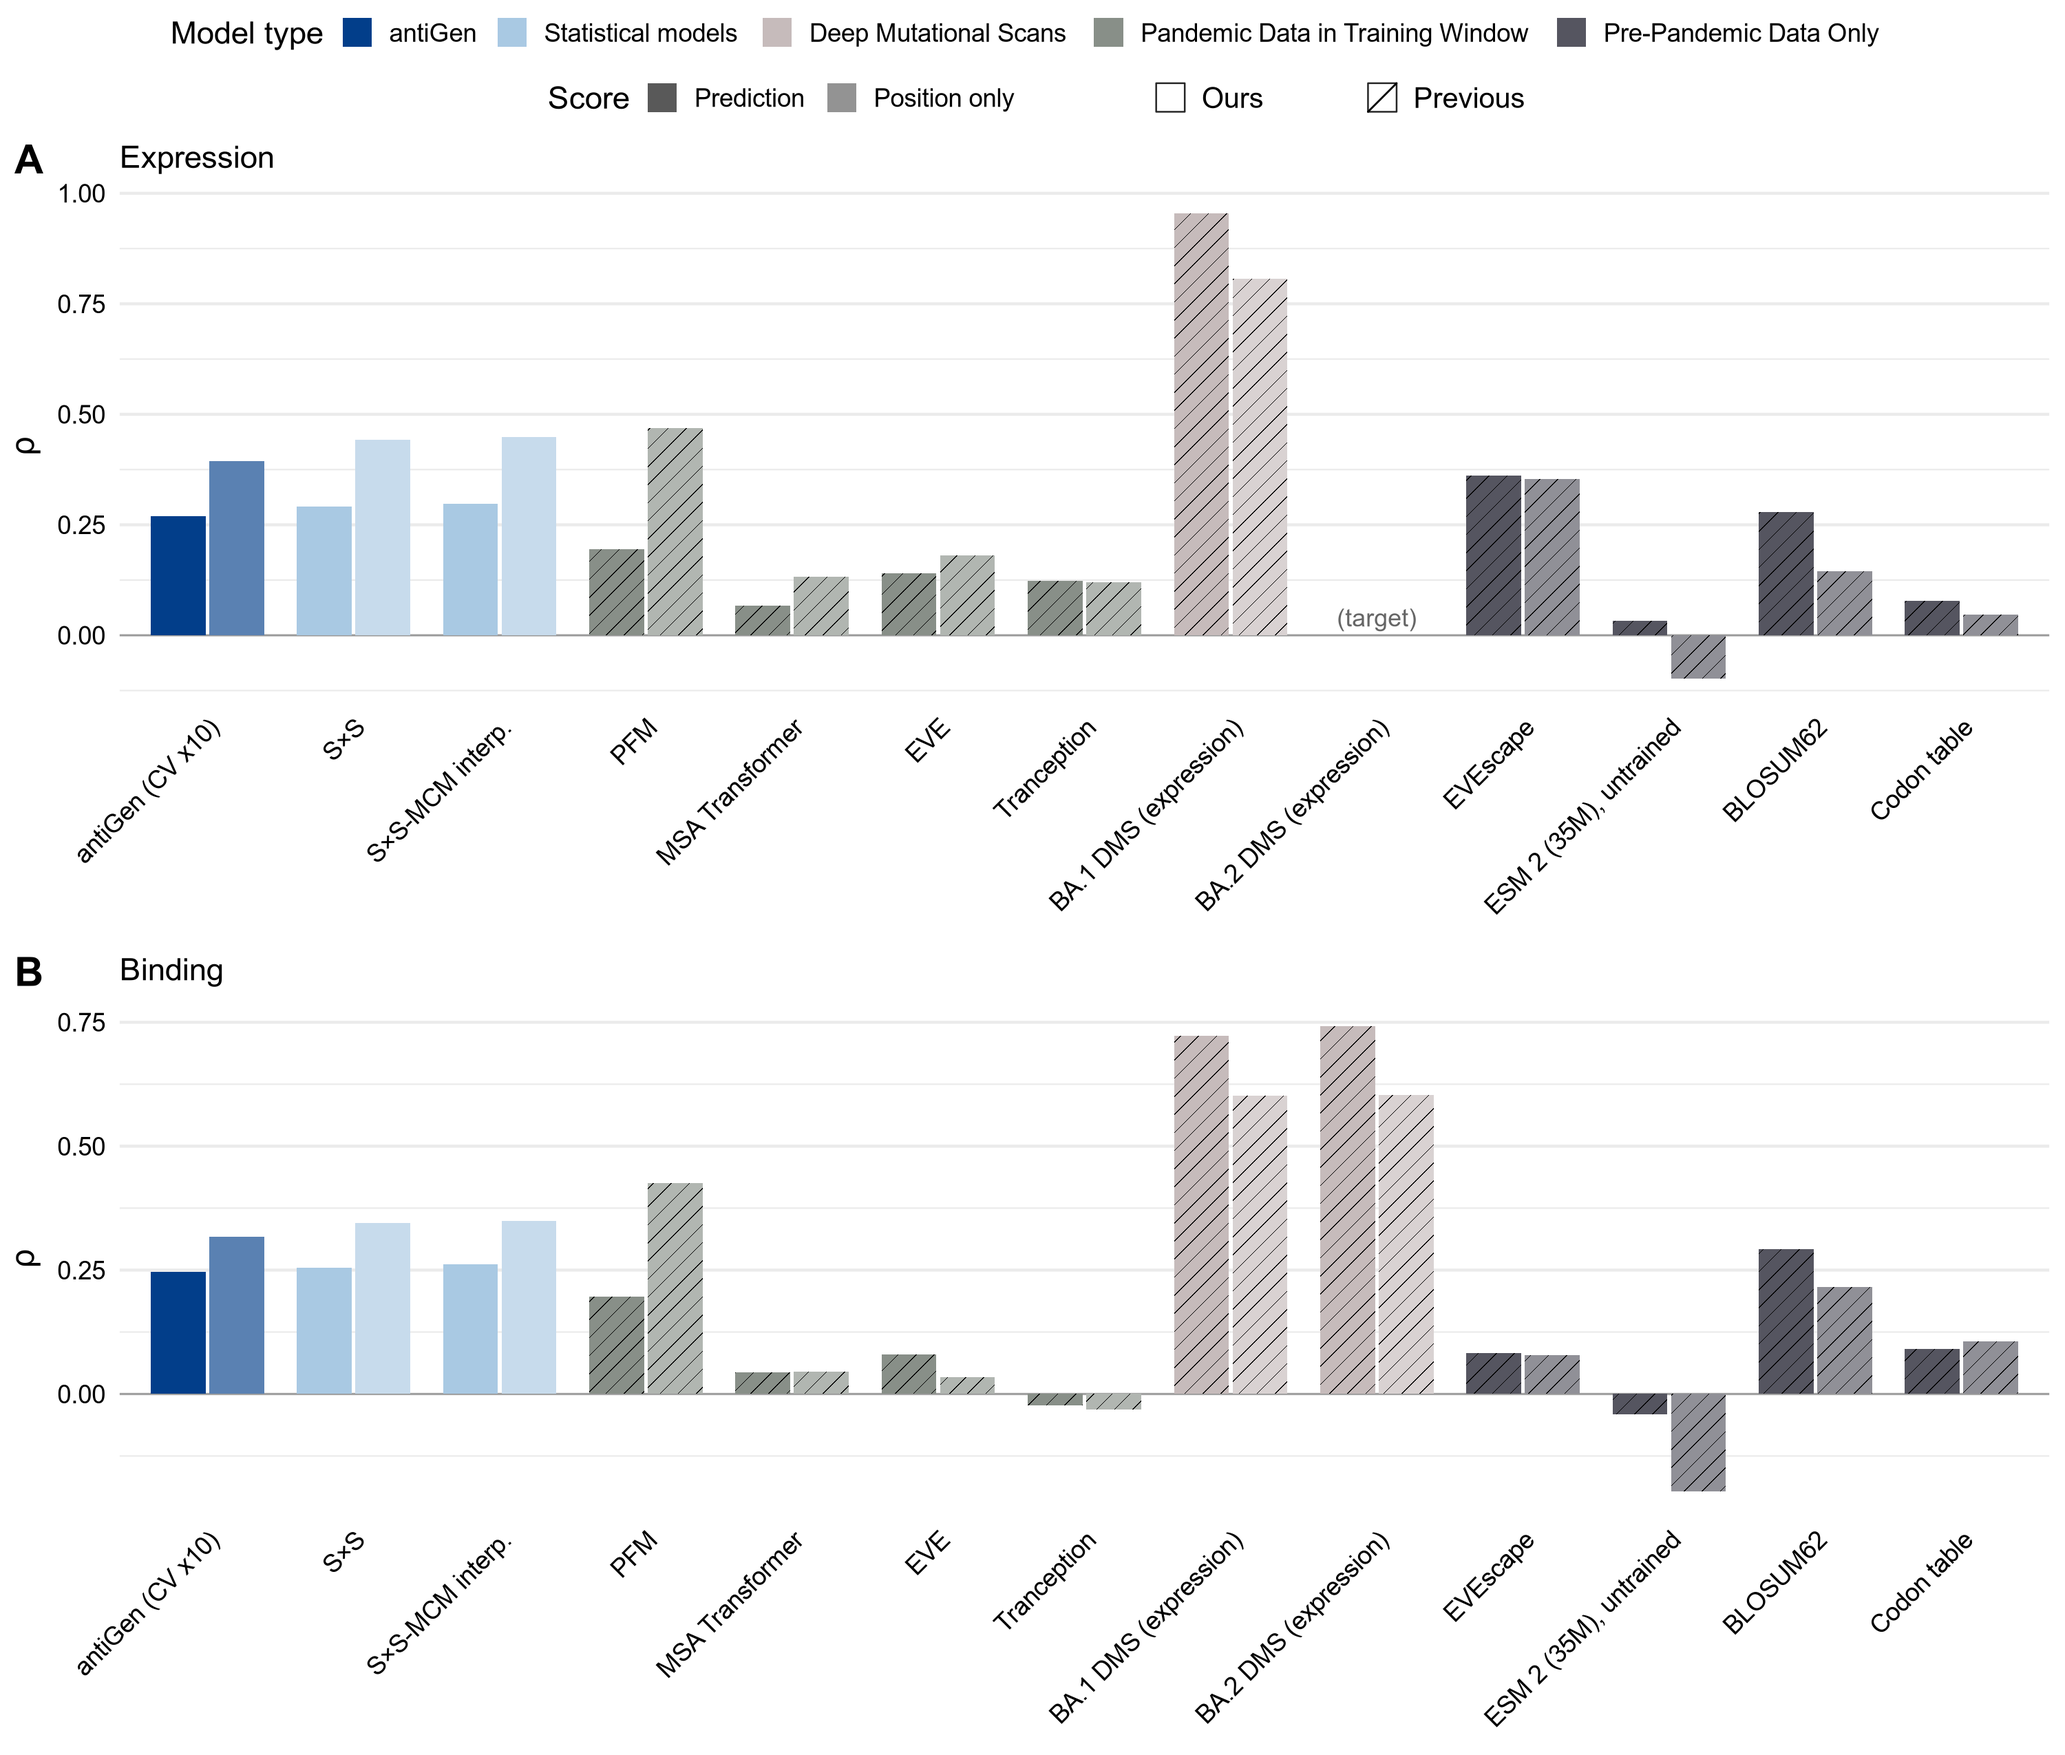
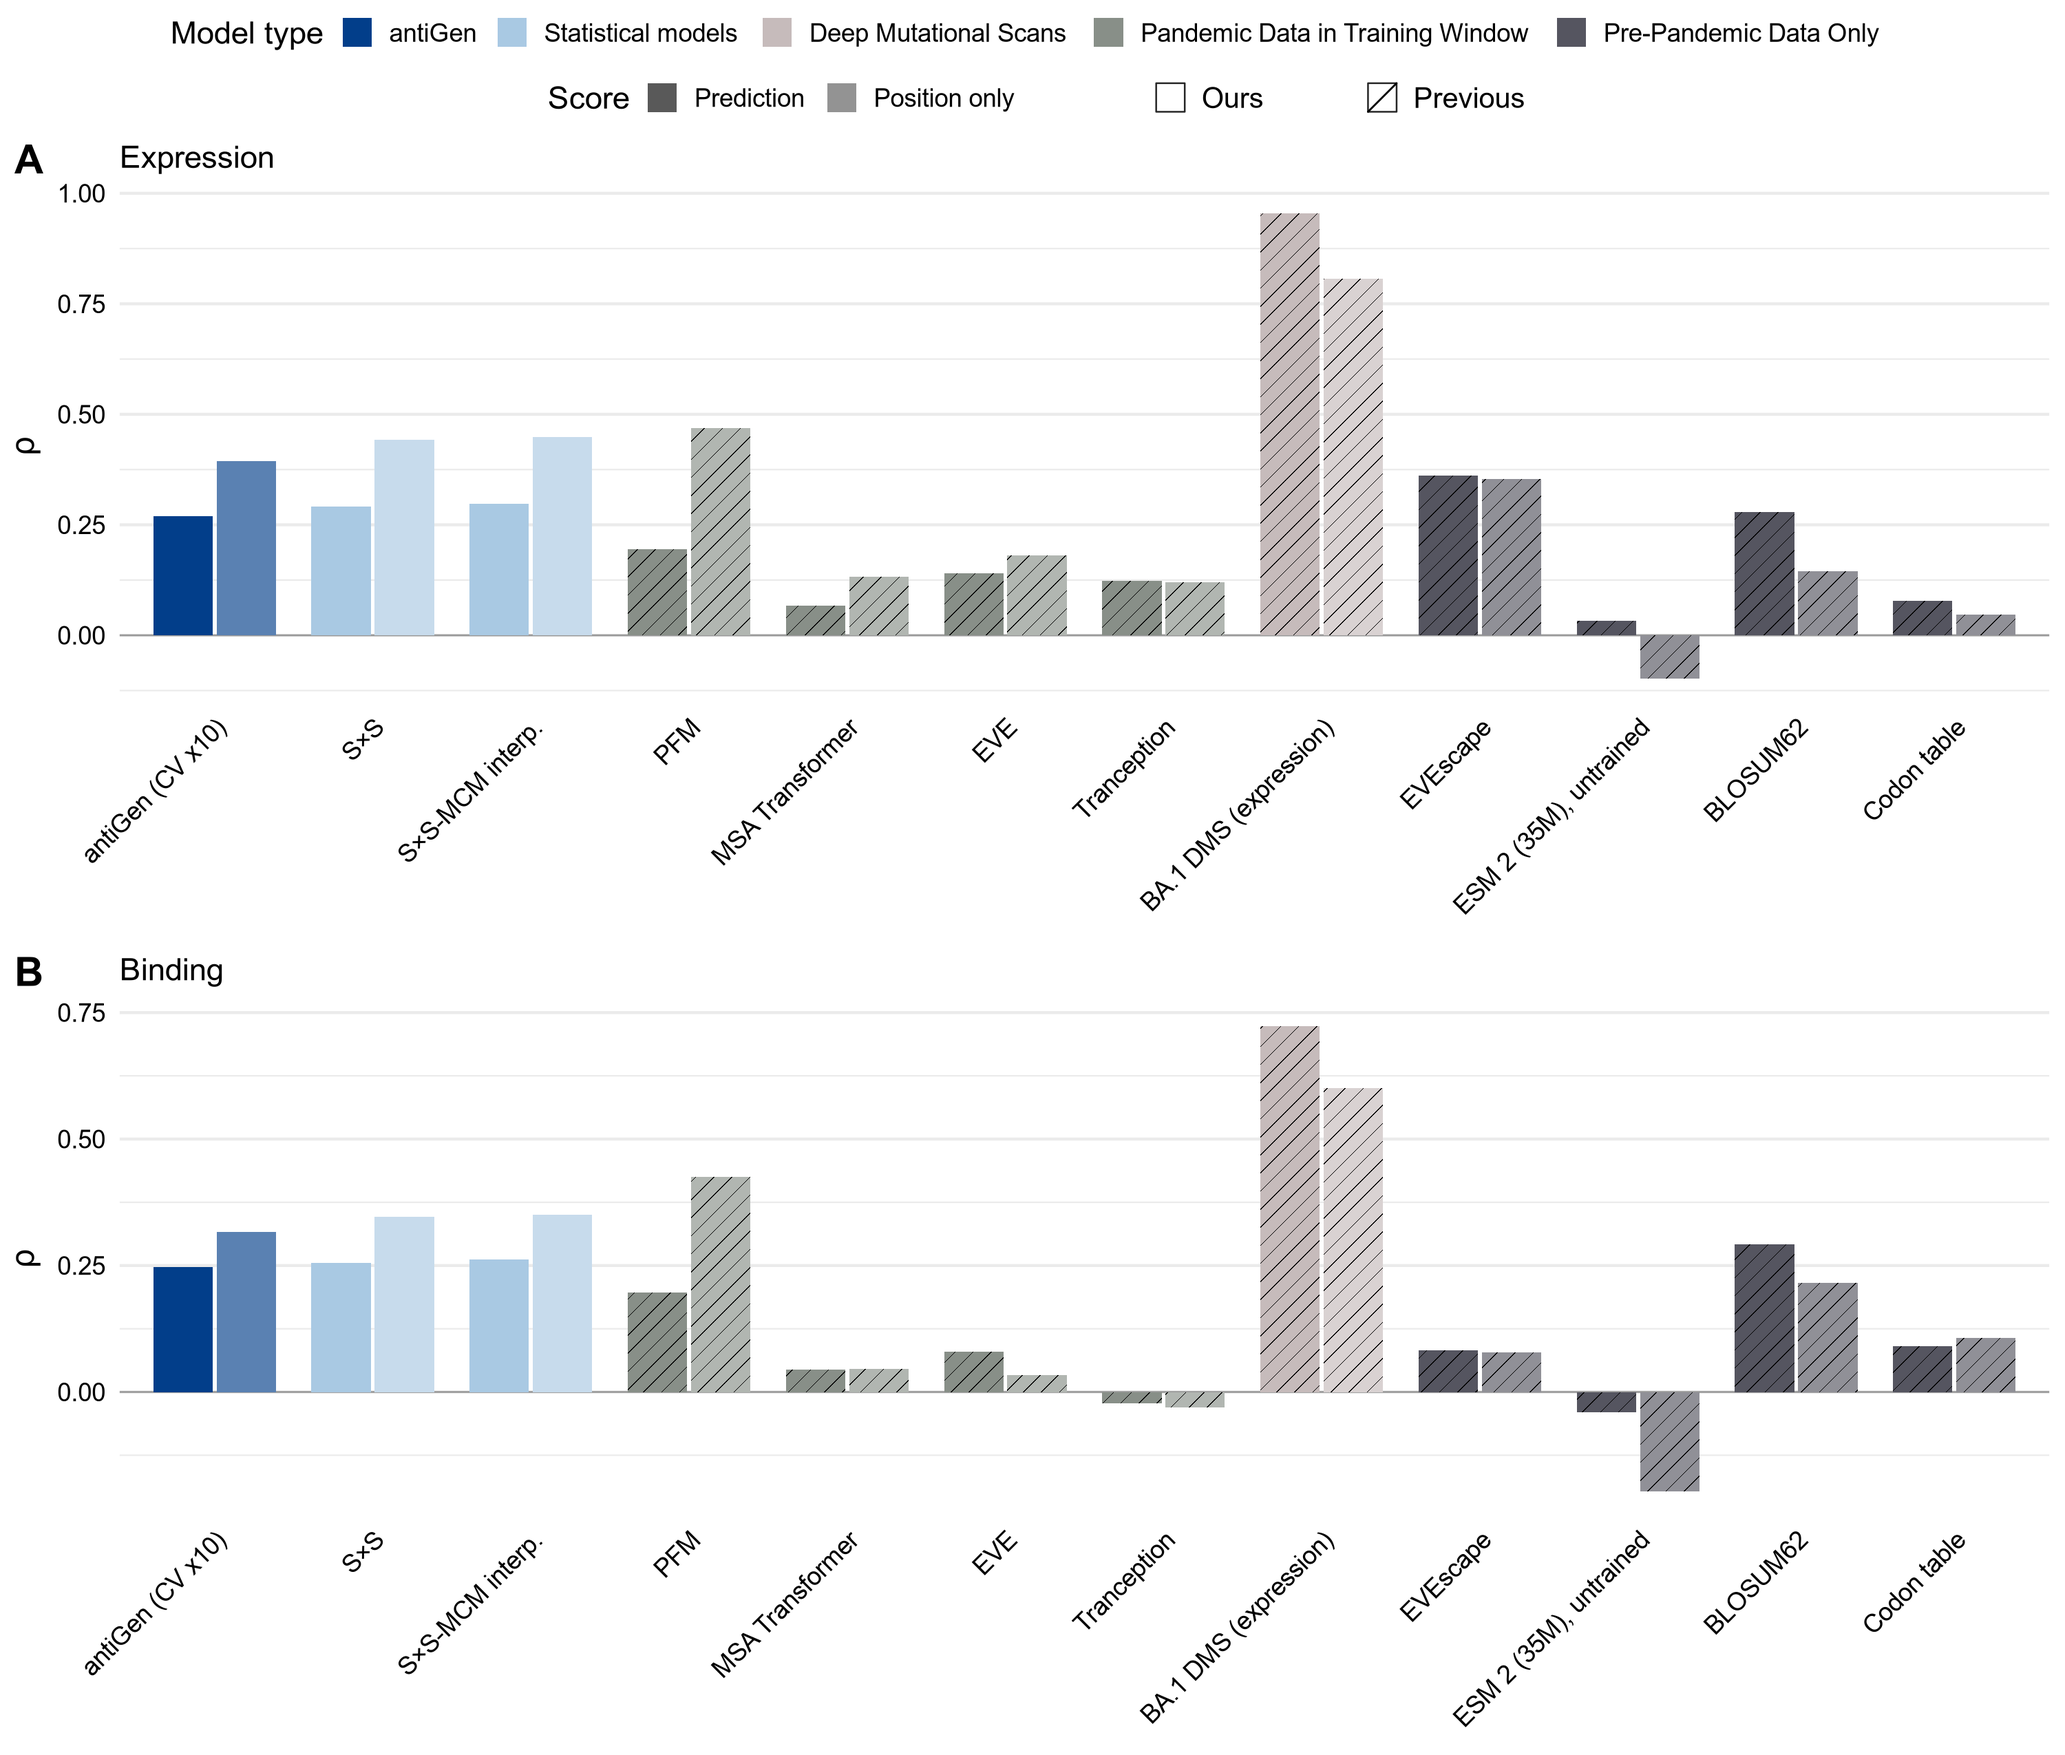
supp_dms_revised2: drop BA.2 DMS (expression) from the roster (s153)

diff --git a/experiments/multitree/NOTES.md b/experiments/multitree/NOTES.md
@@ -13222,10 +13222,11 @@ four transformations) is untouched; it is written by fig2_sc2_benchmarks.R's def
   query 4110) into `data/sc2_aa20_extra/`. The same dump of `site_substitution`
   reproduced the existing `data/sc2_aa20` file byte for byte. The PFM is used as raw
   counts (exp() would overflow them into ties); Spearman needs only their ranks.
-* BA.2 DMS (expression) is the Expression panel's own target, so it appears on Binding
-  only; its Expression slot is marked "(target)".
+* BA.2 DMS (expression), on C-J's roster, is left out of this figure (user): it is the
+  Expression panel's own target. 12 models.
 * **Gate:** the script's numbers equal the drawer's own `dms_spearman` table (the
-  take_log == FALSE rows) for all 42 shared values (11 models x 2 targets x 2 series),
+  take_log == FALSE rows) for all 42 values it shared before BA.2 DMS was removed (11 models x 2 targets x 2
+  series),
   worst difference 0.
 
 | model | expression rho | binding rho |
